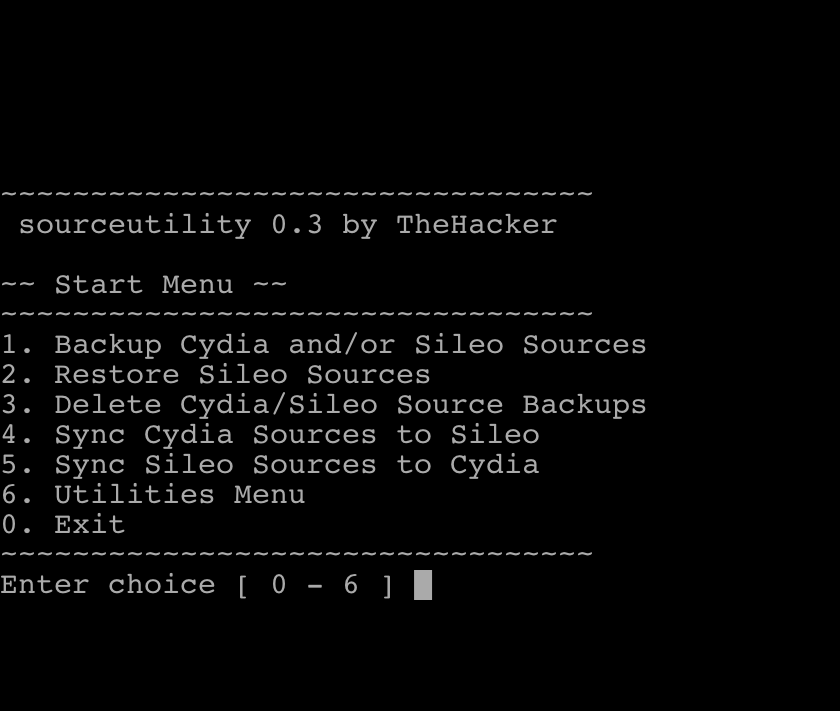
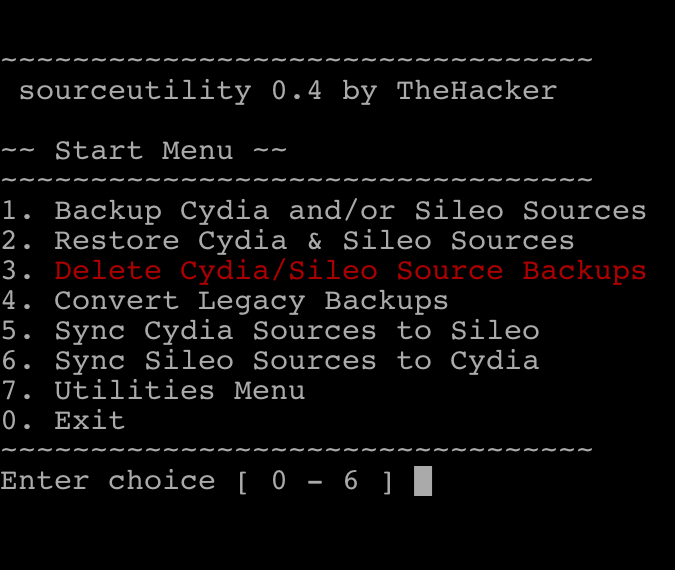
v0.4 of sourceutility

Changed region(s): [[0.0, 0.2386, 0.9644, 0.8947], [0.0, 0.0895, 0.8711, 0.1789], [0.0311, 0.1491, 0.3733, 0.1789]]

diff --git a/hacked-repo/depic/xyz.skylarmccauley.sourceutility/index.html b/hacked-repo/depic/xyz.skylarmccauley.sourceutility/index.html
@@ -24,17 +24,20 @@
       <h2 id="desc">Description</h2>
     <ul>
       <li>
-        The all-in-one utility for managing your already added Cydia and Sileo sources.</p>
+        <p>The all-in-one utility for managing your already added Cydia and Sileo sources.</p>
       </li>
       <li>
-        Run sourceutility in the terminal to get started.
+          <p>Run sourceutility in the terminal to get started.
       </li>
+      <li>
+          <p style="color: red">All backups created with versions prior to 0.4, must be converted using the 'Convert Legacy Backups' option.</p>
+        </li>
     </ul>
 
-    <h2 id="screenshot">Simple Select Menu (Screenshot from v0.3)</h2>
+    <h2 id="screenshot">Simple Select Menu</h2>
     <ul>
       <img src="screenshots/menu.png">
-      <img src="screenshots/menu-u.png">
+      <img src="screenshots/menu_u.png">
     </ul>
     <ul>
         <li>
@@ -46,9 +49,7 @@
       <li>
         <p>Supports iOS 9 - 12.1.2</p>
       </li>
-      <li>
         <script>document.write(iOSVersion())</script>
-      </li>
     </ul>
     <h2 id="dependencies">dependencies</h2>
     <ul>
@@ -67,46 +68,44 @@
     </ul>
     <h2 id="in-this-version">In this version</h2>
     <ul>
+        <h2>April 5, 2019</h2>
+        <li>
+          <p>- Rewrote how backups are made and restored. Old backups are now incompatible</p>
+          <p>- Readded ability to restore Cydia sources</p>
+          <p>- Now compatible with source lists installed to /etc/apt/sources.list.d/</p>
+          <p>- All backups made with versions prior to v0.4 <strong>MUST</strong> be converted</p>
+          <p>- General improvements to how some things work</p>
+        </li>
+    </ul>
+    <h2 id="other-versions">Previous Releases</h2>
+    <ul>
+
         <h2>April 4, 2019</h2>
         <li>
-            <p>0.3-1</p><br>
-            <p>- Renamed Utilities Menu to Other Utilities Menu</p>
-            <p>- Added a reboot option in the Other Utilities Menu</p>
-            <p>- Added some red text here and there so you know which options are dangerous</p>
-            
-          </li>
-        <h2>April 4, 2019</h2>
-        <li>
-            <p>0.3</p><br>
+            <p>0.3-X</p><br>
     
             <p>- Adjusted Select Menus for notched devices</p>
               <p>- Added Utilities Menu </p>
               <p>- Cleaned up the menus some more</p>
               <p>- Added option to purge Cydia Lists & Sources (left over from debugging)</p>
-              
+              <p>- Renamed Utilities Menu to Other Utilities Menu</p>
+              <p>- Added a reboot option in the Other Utilities Menu</p>
+              <p>- Added some red text here and there so you know which options are dangerous</p>
           </li>
-    </ul>
-    <h2 id="other-versions">Previous Releases</h2>
-    <ul>
         <h2>April 2, 2019</h2>
         <li>
-            <p>0.2-2</p><br>
+            <p>0.2-X</p><br>
     
             <p>- Fixed a syntax error</p>
               <p>- Fixed issues with .DS_STORE files</p>
               <p>- Added option to purge .DS_STORE files from previous version</p>
-              
+              <p>- Backup your Cydia and Sileo sources.</p>
+            <p>- Restore your Cydia and Sileo source backups.</p>
           </li>
-        <h2>April 2, 2019</h2>
-      <li>
-        <p>0.2</p><br>
-        <p>Backup your Cydia and Sileo sources.</p>
-        <p>Restore your Cydia and Sileo source backups.</p>
-      </li>
     </ul>
     <h2 id="known-issues">Known&nbsp;Issues</h2>
     <ul>
-      <li>Restoring Cydia sources has been disabled since I was having some issues with it in testing. The code is still there, but I would suggest not using it :).</li>
+      <li>No known issues. Report issues using the contact info below.</li>
     </ul>
     <h2 id="contact">Report Issues to</h2>
     <ul>

diff --git a/hacked-repo/depic/js/index.js b/hacked-repo/depic/js/index.js
@@ -4,13 +4,13 @@ function iOSVersion() {
 
     var iOSVer = navigator.appVersion.match(/CPU( iPhone)? OS (\d+)_(\d+)(_(\d+))? like/i);
     if(!iOSVer) {
-        return `<p style="color: red;">iOS version not detected<p>`;
+        return `<li><p style="color: red;">iOS version not detected</p></li>`;
     }
     var osVersion = [ iOSVer[2], iOSVer[3], iOSVer[4] ? iOSVer[5] : 0 ]
     var osString = osVersion[0] + "." + osVersion[1] + (osVersion[2] && osVersion[2] != 0 ? "." + osVersion[2] : "")
 
     
-        return `<p>You are running iOS <strong>${osString}</strong><p>`
+        return `<li><p>You are running iOS <strong>${osString}</strong></p></li>`
     
     
 }

diff --git a/hacked-repo/depic/xyz.skylarmccauley.noregerts/index.html b/hacked-repo/depic/xyz.skylarmccauley.noregerts/index.html
@@ -41,9 +41,7 @@
       <li>
         <p>In theory, supports all versions of iOS. Hasn't been tested ¯\_(ツ)_/¯</p>
       </li>
-      <li>
         <script>document.write(iOSVersion())</script>
-      </li>
     </ul>
 
     <h2 id="in-this-version">In this version</h2>

diff --git a/hacked-repo/depic/xyz.skylarmccauley.sourcebackup/index.html b/hacked-repo/depic/xyz.skylarmccauley.sourcebackup/index.html
@@ -42,9 +42,7 @@
       <li>
         <p>Supports iOS 9 - 12.1.2</p>
       </li>
-      <li>
         <script>document.write(iOSVersion())</script>
-      </li>
     </ul>
     <h2 id="dependencies">dependencies</h2>
     <ul>
